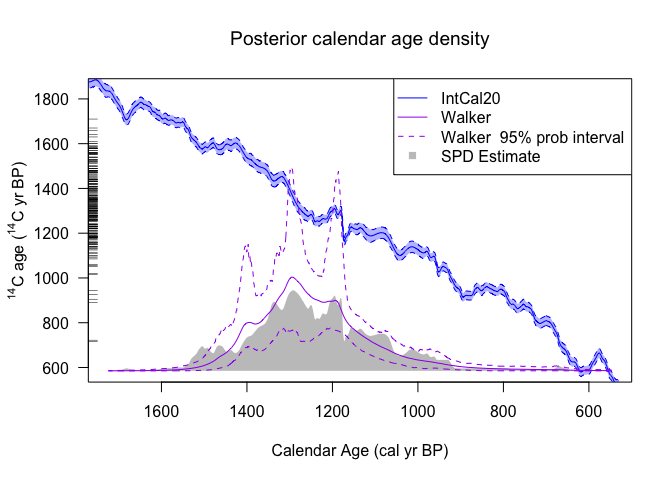
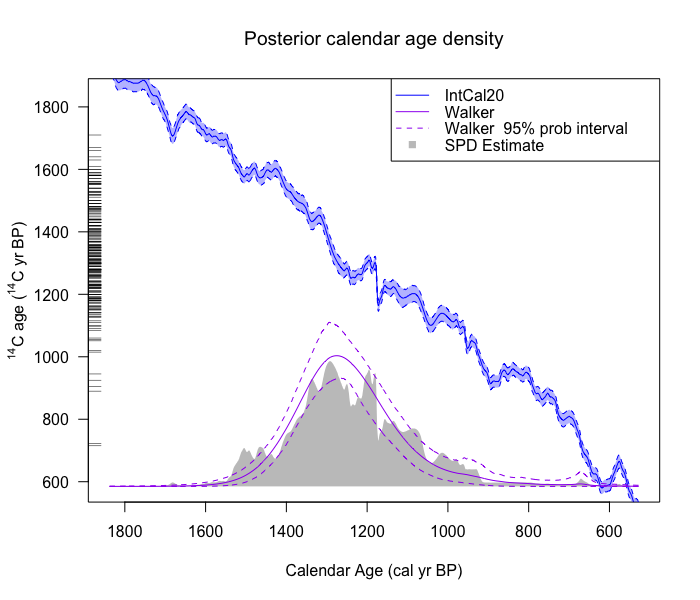
Updating readme and removing action

diff --git a/README.md b/README.md
@@ -6,8 +6,6 @@
 <!-- badges: start -->
 
 [![R-CMD-check](https://github.com/TJHeaton/carbondate/actions/workflows/R-CMD-check.yaml/badge.svg)](https://github.com/TJHeaton/carbondate/actions/workflows/R-CMD-check.yaml)
-[![Codecov test
-coverage](https://codecov.io/gh/TJHeaton/carbondate/branch/main/graph/badge.svg)](https://app.codecov.io/gh/TJHeaton/carbondate?branch=main)
 [![CRAN
 status](https://www.r-pkg.org/badges/version/carbondate)](https://CRAN.R-project.org/package=carbondate)
 <!-- badges: end -->
@@ -49,13 +47,28 @@ walker_temp = WalkerBivarDirichlet(
    nu2 = 10,
    alpha_shape = 1,
    alpha_rate = 1)
-#>   |                                                                              |                                                                      |   0%  |                                                                              |======================================================================| 100%
 ```
 
 Once the calibration has been run, the calendar age density can be
-plotted. Here instead of plotting the output from the example above, we
-plot example output `walker_example_output` which has been run with the
-`kerr` data and 10,000 iterations. This example output is also available
-as a data set in the package.
+plotted.
+
+``` r
+PlotCalendarAgeDensity(
+  c14_determinations = kerr$c14_ages,
+  c14_uncertainties = kerr$c14_sig,
+  calibration_curve = intcal20,
+  output_data = walker_example_output,
+  n_posterior_samples = 500)
+```
+
+Here, instead of plotting the output from the example above, we plot
+output which has been run with the `kerr` data and 100,000 iterations,
+and with slightly different input values.
 
 <img src="man/figures/README-calendar_age-1.png" width="100%" />
+
+For a full example run-through, load the vignette:
+
+``` r
+browseVignettes(package="carbondate")
+```
